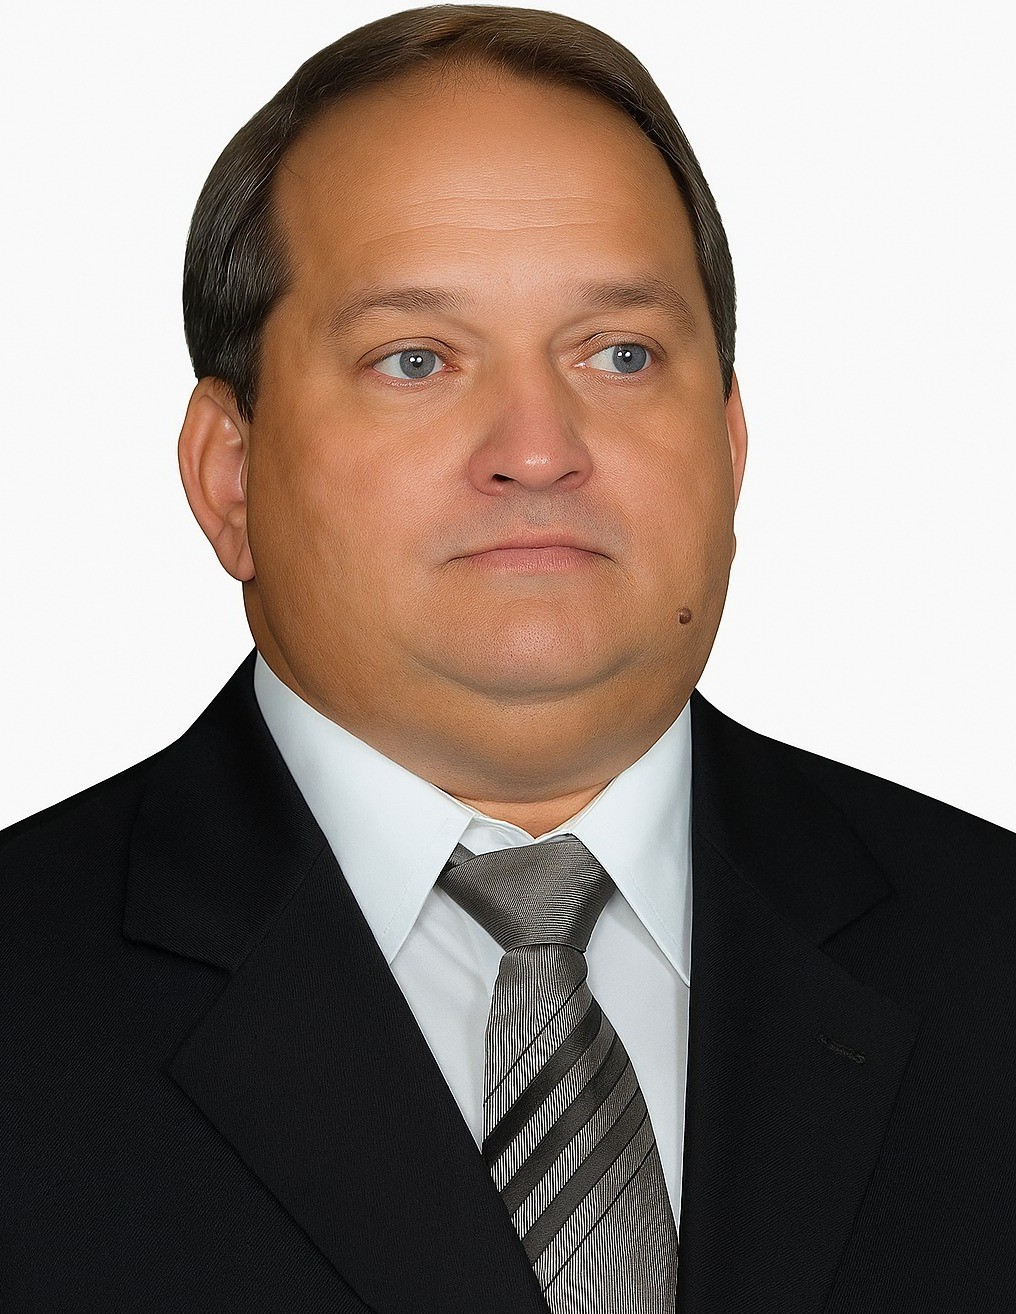
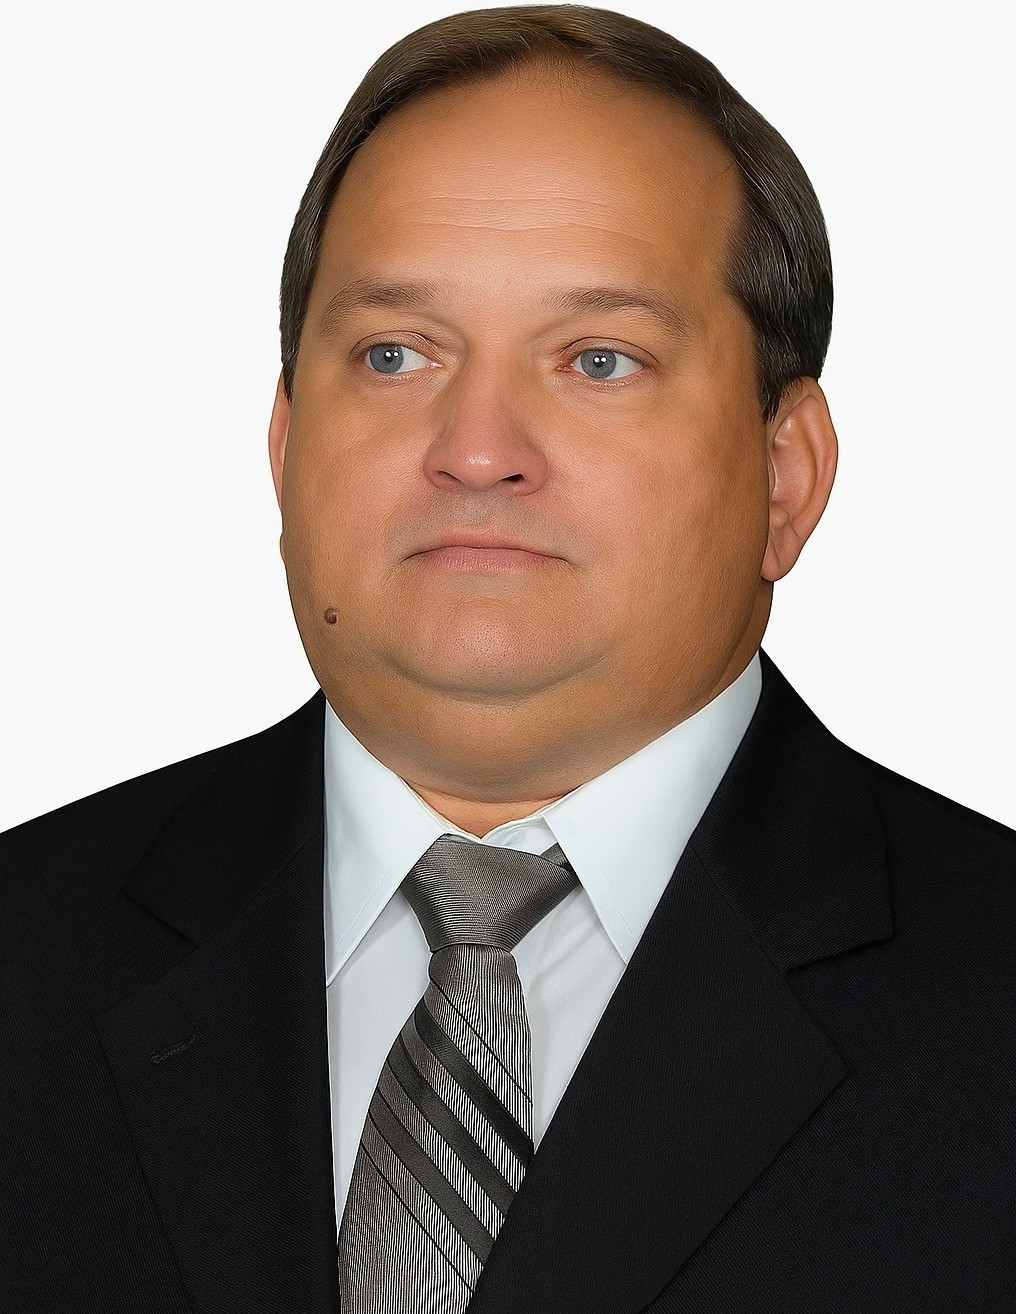
:construction: add two more images in the files

diff --git a/script.js b/script.js
@@ -62,7 +62,7 @@ document.addEventListener('DOMContentLoaded', () => {
                 { nome: "José Donizete Barreto", cargo: "Vereador", foto: "https://placehold.co/150x200/eef2f6/333?text=Foto" },
                 { nome: "José Renato Correa", cargo: "Vereador", foto: "https://placehold.co/150x200/eef2f6/333?text=Foto" },
                 { nome: "Lino Cezar Pereira Rogério", cargo: "Vereador", foto: "../assets/Lino.png" },
-                { nome: "Luis Henrique Garcia", cargo: "Vereador", foto: "https://placehold.co/150x200/eef2f6/333?text=Foto" }
+                { nome: "Luis Henrique Garcia", cargo: "Vereador", foto: "../assets/anteriores/LuisHenriqueGarcia.jpeg" }
             ]
         },
         {
@@ -71,7 +71,7 @@ document.addEventListener('DOMContentLoaded', () => {
             presidente: { nome: "Benedito G. Machado", cargo: "Presidente", foto: "https://placehold.co/150x200/eef2f6/333?text=Foto" },
             diretoria: [
                 { nome: "José Renato Correa", cargo: "Vice-Presidente", foto: "https://placehold.co/150x200/eef2f6/333?text=Foto" },
-                { nome: "Luis Henrique Garcia", cargo: "1º Secretário", foto: "https://placehold.co/150x200/eef2f6/333?text=Foto" },
+                { nome: "Luis Henrique Garcia", cargo: "1º Secretário", foto: "../assets/anteriores/LuisHenriqueGarcia.jpeg" },
                 { nome: "Aline Giovani Ruiz de Oliveira", cargo: "2ª Secretária", foto: "../assets/Aline.png" }
             ],
             vereadores: [
@@ -303,7 +303,7 @@ document.addEventListener('DOMContentLoaded', () => {
                 { nome: "Aparecido Balbino Osório", cargo: "Vereador", foto: "https://placehold.co/150x200/eef2f6/333?text=Foto" },
                 { nome: "Jairo de Souza", cargo: "Vereador", foto: "../assets/anteriores/JairoSouza.jpeg" },
                 { nome: "Laudelino Nogueira dos Santos Fº", cargo: "Vereador", foto: "https://placehold.co/150x200/eef2f6/333?text=Foto" },
-                { nome: "Renato Barrinuevo da Silva", cargo: "Vereador", foto: "https://placehold.co/150x200/eef2f6/333?text=Foto" },
+                { nome: "Renato Barrinuevo da Silva", cargo: "Vereador", foto: "../assets/anteriores/RenatoBarrinuevo.jpeg" },
                 { nome: "Samuel Sabino Bezerra", cargo: "Vereador", foto: "../assets/anteriores/SamuelSabinoBezerra.jpeg" },
                 { nome: "Yoshio Munefiça", cargo: "Vereador", foto: "https://placehold.co/150x200/eef2f6/333?text=Foto" }
             ]
